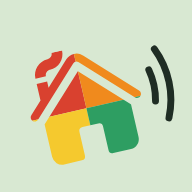
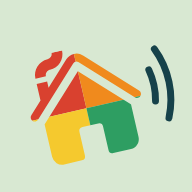
Verde petrolio al posto del nero per testi, bottoni ed etichette
Claude-Session: https://claude.ai/code/session_01FJeNFg9YN6kUbXDtqfJaTC

Changed region(s): [[0.75, 0.2188, 0.9062, 0.625]]

diff --git a/style.css b/style.css
@@ -12,14 +12,16 @@
 :root {
   --board: #E3EDDE;
   --paper: #F6FAF3;
-  --ink: #1F2D24;
+  --ink: #16424A;
+  --petrol: #1E6670;
+  --on-petrol: #FFFFFF;
   --ink2: #55695A;
   --line: #BCCFB6;
   --late: #B3261E;
   --soon: #F6D68A;
   --good: #2E9E62;
   /* Un magnete per persona: colore e colore del testo sopra di esso */
-  --famiglia: #2F3E36;
+  --famiglia: #1E6670;
   --lucia: #C23B72;
   --eddie: #E8A020;
   --zaja: #2C8A55;
@@ -32,7 +34,9 @@
 body.night {
   --board: #111A14;
   --paper: #1A261E;
-  --ink: #DCE8D9;
+  --ink: #D4EBEC;
+  --petrol: #5DB0B8;
+  --on-petrol: #0C2226;
   --ink2: #93A897;
   --line: #2A392F;
   --soon: #6B5A22;
@@ -46,7 +50,7 @@ body.sheet-open { overflow: hidden; }
 button, input, select { font: inherit; color: inherit; }
 button { cursor: pointer; }
 h1, h2 { margin: 0; }
-:focus-visible { outline: 3px solid var(--ink); outline-offset: 2px; }
+:focus-visible { outline: 3px solid var(--petrol); outline-offset: 2px; }
 
 .ico svg { width: 1.2em; height: 1.2em; fill: none; stroke: currentColor; stroke-width: 1.8; stroke-linecap: round; stroke-linejoin: round; vertical-align: -.2em; }
 
@@ -95,7 +99,7 @@ html.mode-display body { overflow: hidden; user-select: none; -webkit-user-selec
 .dl { display: flex; flex-direction: column; align-items: center; line-height: 1; padding: .3rem 0; }
 .dw { font-size: 1.2rem; font-weight: 600; color: var(--ink2); }
 .dn { font-size: 2.7rem; font-weight: 700; letter-spacing: -.02em; }
-.today .dl { background: var(--ink); color: var(--paper); border-radius: .9rem; padding: .7rem .4rem .6rem; gap: .2rem; }
+.today .dl { background: var(--petrol); color: var(--on-petrol); border-radius: .9rem; padding: .7rem .4rem .6rem; gap: .2rem; }
 .today .dw { color: inherit; opacity: .8; }
 .today .dn { font-size: 3.4rem; }
 
@@ -108,7 +112,7 @@ html.mode-display body { overflow: hidden; user-select: none; -webkit-user-selec
   max-width: 100%;
   padding: .22rem .9rem .22rem .35rem;
   border-radius: .8rem;
-  background: var(--pc, var(--ink));
+  background: var(--pc, var(--petrol));
   color: var(--pt, var(--paper));
   font-size: 1.4rem;
   font-weight: 600;
@@ -117,9 +121,9 @@ html.mode-display body { overflow: hidden; user-select: none; -webkit-user-selec
 .mag .tx { overflow: hidden; text-overflow: ellipsis; white-space: nowrap; }
 .mag .t { font-weight: 800; }
 .mag .au { flex: none; width: 1.7rem; height: 1.7rem; border-radius: 50%; display: grid; place-items: center; font-size: 1rem; font-weight: 800; background: rgba(255, 255, 255, .26); }
-.p-eddie .au { background: rgba(31, 45, 36, .16); }
+.p-eddie .au { background: rgba(22, 66, 74, .16); }
 .mag .ico svg { width: 1.15em; height: 1.15em; }
-.mag.rem { background: transparent; color: var(--ink); box-shadow: inset 0 0 0 .18rem var(--pc, var(--ink)); }
+.mag.rem { background: transparent; color: var(--ink); box-shadow: inset 0 0 0 .18rem var(--pc, var(--petrol)); }
 .mag.rem .au { background: var(--pc); color: var(--pt); }
 .mag.past { opacity: .42; }
 .more, .none { font-size: 1.2rem; font-weight: 500; color: var(--ink2); }
@@ -136,7 +140,7 @@ html.mode-display body { overflow: hidden; user-select: none; -webkit-user-selec
 .scad li { display: flex; justify-content: space-between; align-items: center; gap: 1rem; padding: .5rem 0; border-top: 1px solid var(--line); }
 .scad li:first-child { border-top: 0; }
 .scad .nm { font-size: 1.45rem; font-weight: 600; overflow: hidden; text-overflow: ellipsis; white-space: nowrap; }
-.scad .bd { flex: none; font-size: 1.1rem; font-weight: 700; padding: .25rem .7rem; border-radius: .6rem; background: rgba(31, 45, 36, .08); color: var(--ink2); }
+.scad .bd { flex: none; font-size: 1.1rem; font-weight: 700; padding: .25rem .7rem; border-radius: .6rem; background: rgba(22, 66, 74, .08); color: var(--ink2); }
 .scad .soon .bd { background: var(--soon); color: var(--ink); }
 .scad .late .bd { background: var(--late); color: #fff; }
 .scad .more, .scad .none { border-top: 0; }
@@ -171,16 +175,16 @@ html.mode-display body { overflow: hidden; user-select: none; -webkit-user-selec
 .tabs button { border: 0; background: none; padding: .55rem .2rem .5rem; display: flex; flex-direction: column; align-items: center; gap: .15rem; font-size: .75rem; font-weight: 600; color: var(--ink2); }
 .tabs .ico svg { width: 1.55rem; height: 1.55rem; }
 .tabs .on { color: var(--ink); font-weight: 800; }
-.tabs .on .ico { background: var(--ink); color: var(--paper); border-radius: 999px; padding: .15rem 1rem; }
+.tabs .on .ico { background: var(--petrol); color: var(--on-petrol); border-radius: 999px; padding: .15rem 1rem; }
 
 .fab {
   position: fixed; z-index: 7;
   right: max(1.1rem, calc(50vw - 320px + 1.1rem));
   bottom: calc(4.9rem + env(safe-area-inset-bottom));
   width: 3.5rem; height: 3.5rem; border-radius: 50%; border: 0;
-  background: var(--ink); color: var(--paper);
+  background: var(--petrol); color: var(--on-petrol);
   display: grid; place-items: center;
-  box-shadow: 0 .4rem 1rem rgba(31, 45, 36, .28);
+  box-shadow: 0 .4rem 1rem rgba(22, 66, 74, .28);
 }
 .fab .ico svg { width: 1.7rem; height: 1.7rem; stroke-width: 2.2; }
 
@@ -205,15 +209,15 @@ html.mode-display body { overflow: hidden; user-select: none; -webkit-user-selec
 .row.split { display: flex; padding: 0; overflow: hidden; border-left-color: var(--line); }
 .row.split .grow { flex: 1; min-width: 0; display: flex; gap: .8rem; align-items: center; text-align: left; background: none; border: 0; padding: .75rem .85rem; }
 .row.split > .btn { margin: .6rem .7rem .6rem 0; align-self: center; }
-.badge { flex: none; min-width: 5.4rem; text-align: center; padding: .35rem .4rem; border-radius: .6rem; font-size: .8rem; font-weight: 700; background: rgba(31, 45, 36, .08); color: var(--ink2); }
+.badge { flex: none; min-width: 5.4rem; text-align: center; padding: .35rem .4rem; border-radius: .6rem; font-size: .8rem; font-weight: 700; background: rgba(22, 66, 74, .08); color: var(--ink2); }
 .badge.soon { background: var(--soon); color: var(--ink); }
 .badge.late { background: var(--late); color: #fff; }
 
 .chips { display: flex; flex-wrap: wrap; gap: .5rem; }
 .chipbtn { display: inline-flex; align-items: center; gap: .35rem; border: 1.5px solid var(--line); background: var(--paper); border-radius: 999px; padding: .55rem .95rem; font-size: .95rem; font-weight: 600; }
-.chipbtn.on { background: var(--ink); border-color: var(--ink); color: var(--paper); }
+.chipbtn.on { background: var(--petrol); border-color: var(--petrol); color: var(--on-petrol); }
 .chipbtn.static { padding: .3rem .4rem .3rem .85rem; cursor: default; }
-.chipbtn.static button { border: 0; background: rgba(31, 45, 36, .1); border-radius: 50%; width: 1.6rem; height: 1.6rem; padding: 0; display: grid; place-items: center; }
+.chipbtn.static button { border: 0; background: rgba(22, 66, 74, .1); border-radius: 50%; width: 1.6rem; height: 1.6rem; padding: 0; display: grid; place-items: center; }
 .chipbtn .ico svg { width: 1em; height: 1em; }
 
 .inline { display: flex; gap: .5rem; margin-top: .8rem; }
@@ -223,8 +227,8 @@ html.mode-display body { overflow: hidden; user-select: none; -webkit-user-selec
 .check input { position: absolute; opacity: 0; width: 1px; height: 1px; }
 .check .box { flex: none; width: 1.8rem; height: 1.8rem; border: 2px solid var(--ink); border-radius: .5rem; display: grid; place-items: center; color: transparent; }
 .check .box .ico svg { width: 1.2rem; height: 1.2rem; stroke-width: 2.4; }
-.check input:checked + .box { background: var(--ink); color: var(--paper); }
-.check input:focus-visible + .box { outline: 3px solid var(--ink); outline-offset: 2px; }
+.check input:checked + .box { background: var(--petrol); color: var(--on-petrol); }
+.check input:focus-visible + .box { outline: 3px solid var(--petrol); outline-offset: 2px; }
 .check.done .tx { text-decoration: line-through; opacity: .55; }
 
 .empty { display: flex; flex-direction: column; gap: .3rem; padding: 3.5rem 1rem; text-align: center; color: var(--ink2); }
@@ -232,7 +236,7 @@ html.mode-display body { overflow: hidden; user-select: none; -webkit-user-selec
 .hint { color: var(--ink2); font-size: .88rem; margin: .5rem 0 0; }
 
 /* Moduli */
-input, select { width: 100%; padding: .75rem .8rem; border: 1.5px solid var(--line); border-radius: .8rem; background: #fff; color: #1F2D24; min-height: 2.9rem; }
+input, select { width: 100%; padding: .75rem .8rem; border: 1.5px solid var(--line); border-radius: .8rem; background: #fff; color: var(--ink); min-height: 2.9rem; }
 input[type=radio], input[type=checkbox] { width: auto; min-height: 0; }
 label { display: block; font-size: .85rem; font-weight: 600; margin-top: .9rem; }
 label input, label select { margin-top: .35rem; font-weight: 500; font-size: 1rem; }
@@ -247,11 +251,11 @@ legend { font-size: .85rem; font-weight: 600; padding: 0; margin-bottom: .45rem;
 .seg.two label { flex: 1; }
 .seg input { position: absolute; opacity: 0; width: 1px; height: 1px; }
 .seg span { display: block; text-align: center; padding: .6rem 1rem; border: 1.5px solid var(--line); border-radius: .8rem; background: var(--paper); font-weight: 600; }
-.seg input:checked + span { background: var(--pc, var(--ink)); border-color: var(--pc, var(--ink)); color: var(--pt, var(--paper)); }
-.seg input:focus-visible + span { outline: 3px solid var(--ink); outline-offset: 2px; }
+.seg input:checked + span { background: var(--pc, var(--petrol)); border-color: var(--pc, var(--petrol)); color: var(--pt, var(--paper)); }
+.seg input:focus-visible + span { outline: 3px solid var(--petrol); outline-offset: 2px; }
 
-.btn { display: inline-block; text-align: center; text-decoration: none; font-weight: 700; border: 1.5px solid var(--ink); background: transparent; color: var(--ink); border-radius: .8rem; padding: .7rem 1.1rem; }
-.btn.primary { background: var(--ink); color: var(--paper); }
+.btn { display: inline-block; text-align: center; text-decoration: none; font-weight: 700; border: 1.5px solid var(--petrol); background: transparent; color: var(--ink); border-radius: .8rem; padding: .7rem 1.1rem; }
+.btn.primary { background: var(--petrol); color: var(--on-petrol); }
 .btn.danger { border-color: var(--late); color: var(--late); }
 .btn.small { padding: .4rem .8rem; font-size: .85rem; border-width: 1.5px; }
 .btn.wide { display: block; width: 100%; margin-top: .8rem; }
@@ -267,7 +271,7 @@ legend { font-size: .85rem; font-weight: 600; padding: 0; margin-bottom: .45rem;
 }
 .sheet header { display: flex; justify-content: space-between; align-items: center; }
 .sheet h2 { font-size: 1.3rem; font-weight: 800; letter-spacing: -.01em; }
-.sheet .x { border: 0; background: rgba(31, 45, 36, .08); border-radius: 50%; width: 2.4rem; height: 2.4rem; display: grid; place-items: center; }
+.sheet .x { border: 0; background: rgba(22, 66, 74, .08); border-radius: 50%; width: 2.4rem; height: 2.4rem; display: grid; place-items: center; }
 .sheet footer { display: flex; gap: .6rem; margin-top: 1.3rem; }
 .sheet footer .primary { flex: 1; }
 @keyframes up { from { transform: translateY(1.5rem); opacity: .6; } to { transform: none; opacity: 1; } }
@@ -282,7 +286,7 @@ html.mode-display .sheet { left: 50%; right: auto; bottom: auto; top: 50%; trans
 
 #toast {
   position: fixed; left: 50%; bottom: 6.8rem; z-index: 40; transform: translate(-50%, .6rem);
-  background: var(--ink); color: var(--paper); padding: .7rem 1.1rem; border-radius: .8rem;
+  background: var(--petrol); color: var(--on-petrol); padding: .7rem 1.1rem; border-radius: .8rem;
   font-size: .95rem; font-weight: 600; opacity: 0; pointer-events: none; transition: opacity .2s, transform .2s;
   max-width: 90vw; text-align: center;
 }

diff --git a/app.js b/app.js
@@ -1,5 +1,5 @@
 'use strict';
-const LOGO = '<svg class="logo" viewBox="0 0 100 100" aria-hidden="true"><rect width="100" height="100" rx="22" fill="#D8E8D2"/><defs><clipPath id="nvh"><path d="M11.47 3.841a.75.75 0 0 1 1.06 0l8.69 8.69a.75.75 0 1 0 1.06-1.061l-8.689-8.69a2.25 2.25 0 0 0-3.182 0l-8.69 8.69a.75.75 0 1 0 1.061 1.06l8.69-8.689Z"/><path d="m12 5.432 8.159 8.159c.03.03.06.058.091.086v6.198c0 1.035-.84 1.875-1.875 1.875H15a.75.75 0 0 1-.75-.75v-4.5a.75.75 0 0 0-.75-.75h-3a.75.75 0 0 0-.75.75V21a.75.75 0 0 1-.75.75H5.625a1.875 1.875 0 0 1-1.875-1.875v-6.198a2.29 2.29 0 0 0 .091-.086L12 5.432Z"/><path d="M4 6h2v3L4 11z"/><path d="M10 1c0 1.66-1.34 3-3 3-.55 0-1 .45-1 1H4c0-1.66 1.34-3 3-3 .55 0 1-.45 1-1h2z"/></clipPath></defs><g transform="rotate(-13 44 52) translate(10.4 21.5) scale(2.8)"><g clip-path="url(#nvh)"><rect x="0" y="0" width="12" height="12.5" fill="#D9412F"/><rect x="12" y="0" width="12" height="12.5" fill="#F08A1D"/><rect x="0" y="12.5" width="12" height="12" fill="#F5C92E"/><rect x="12" y="12.5" width="12" height="12" fill="#2E9E62"/></g></g><g fill="none" stroke="#1F2D24" stroke-width="3.6" stroke-linecap="round"><path d="M77.5 36.4A37 37 0 0 1 81.0 52.6"/><path d="M80.4 25.5A45 45 0 0 1 88.0 61.4"/></g></svg>';
+const LOGO = '<svg class="logo" viewBox="0 0 100 100" aria-hidden="true"><rect width="100" height="100" rx="22" fill="#D8E8D2"/><defs><clipPath id="nvh"><path d="M11.47 3.841a.75.75 0 0 1 1.06 0l8.69 8.69a.75.75 0 1 0 1.06-1.061l-8.689-8.69a2.25 2.25 0 0 0-3.182 0l-8.69 8.69a.75.75 0 1 0 1.061 1.06l8.69-8.689Z"/><path d="m12 5.432 8.159 8.159c.03.03.06.058.091.086v6.198c0 1.035-.84 1.875-1.875 1.875H15a.75.75 0 0 1-.75-.75v-4.5a.75.75 0 0 0-.75-.75h-3a.75.75 0 0 0-.75.75V21a.75.75 0 0 1-.75.75H5.625a1.875 1.875 0 0 1-1.875-1.875v-6.198a2.29 2.29 0 0 0 .091-.086L12 5.432Z"/><path d="M4 6h2v3L4 11z"/><path d="M10 1c0 1.66-1.34 3-3 3-.55 0-1 .45-1 1H4c0-1.66 1.34-3 3-3 .55 0 1-.45 1-1h2z"/></clipPath></defs><g transform="rotate(-13 44 52) translate(10.4 21.5) scale(2.8)"><g clip-path="url(#nvh)"><rect x="0" y="0" width="12" height="12.5" fill="#D9412F"/><rect x="12" y="0" width="12" height="12.5" fill="#F08A1D"/><rect x="0" y="12.5" width="12" height="12" fill="#F5C92E"/><rect x="12" y="12.5" width="12" height="12" fill="#2E9E62"/></g></g><g fill="none" stroke="#16424A" stroke-width="3.6" stroke-linecap="round"><path d="M77.5 36.4A37 37 0 0 1 81.0 52.6"/><path d="M80.4 25.5A45 45 0 0 1 88.0 61.4"/></g></svg>';
 /* Narrivu — app web per tablet e telefoni. Licenza: GPL-3.0 */
 
 const PERSONE = ['Famiglia', 'Lucia', 'Eddie', 'Zaja'];

diff --git a/sw.js b/sw.js
@@ -1,7 +1,7 @@
 'use strict';
 /* Service worker: tiene l'app disponibile anche senza rete.
    Cambia il numero di versione qui sotto quando pubblichi una nuova versione. */
-const CACHE = 'narrivu-v6';
+const CACHE = 'narrivu-v7';
 const SHELL = ['./', './index.html', './style.css', './app.js', './manifest.webmanifest',
   './fonts/bricolage.woff2', './icon-192.png', './icon-512.png'];
 

diff --git a/README.md b/README.md
@@ -40,7 +40,7 @@ Chiunque conosca il nome del canale può leggere le notifiche: il nome è casual
 - Pressione lunga sul titolo/pallino: impostazioni.
 
 ## Aggiornare
-Modifica i file, ricarica su GitHub e aumenta `CACHE` in `sw.js` (es. `narrivu-v6`), altrimenti i dispositivi restano sulla versione vecchia. Dopo modifiche a `Code.gs`: **Distribuisci > Gestisci distribuzioni > Modifica > Nuova versione**.
+Modifica i file, ricarica su GitHub e aumenta `CACHE` in `sw.js` (es. `narrivu-v7`), altrimenti i dispositivi restano sulla versione vecchia. Dopo modifiche a `Code.gs`: **Distribuisci > Gestisci distribuzioni > Modifica > Nuova versione**.
 
 ## Prove in locale
 ```
